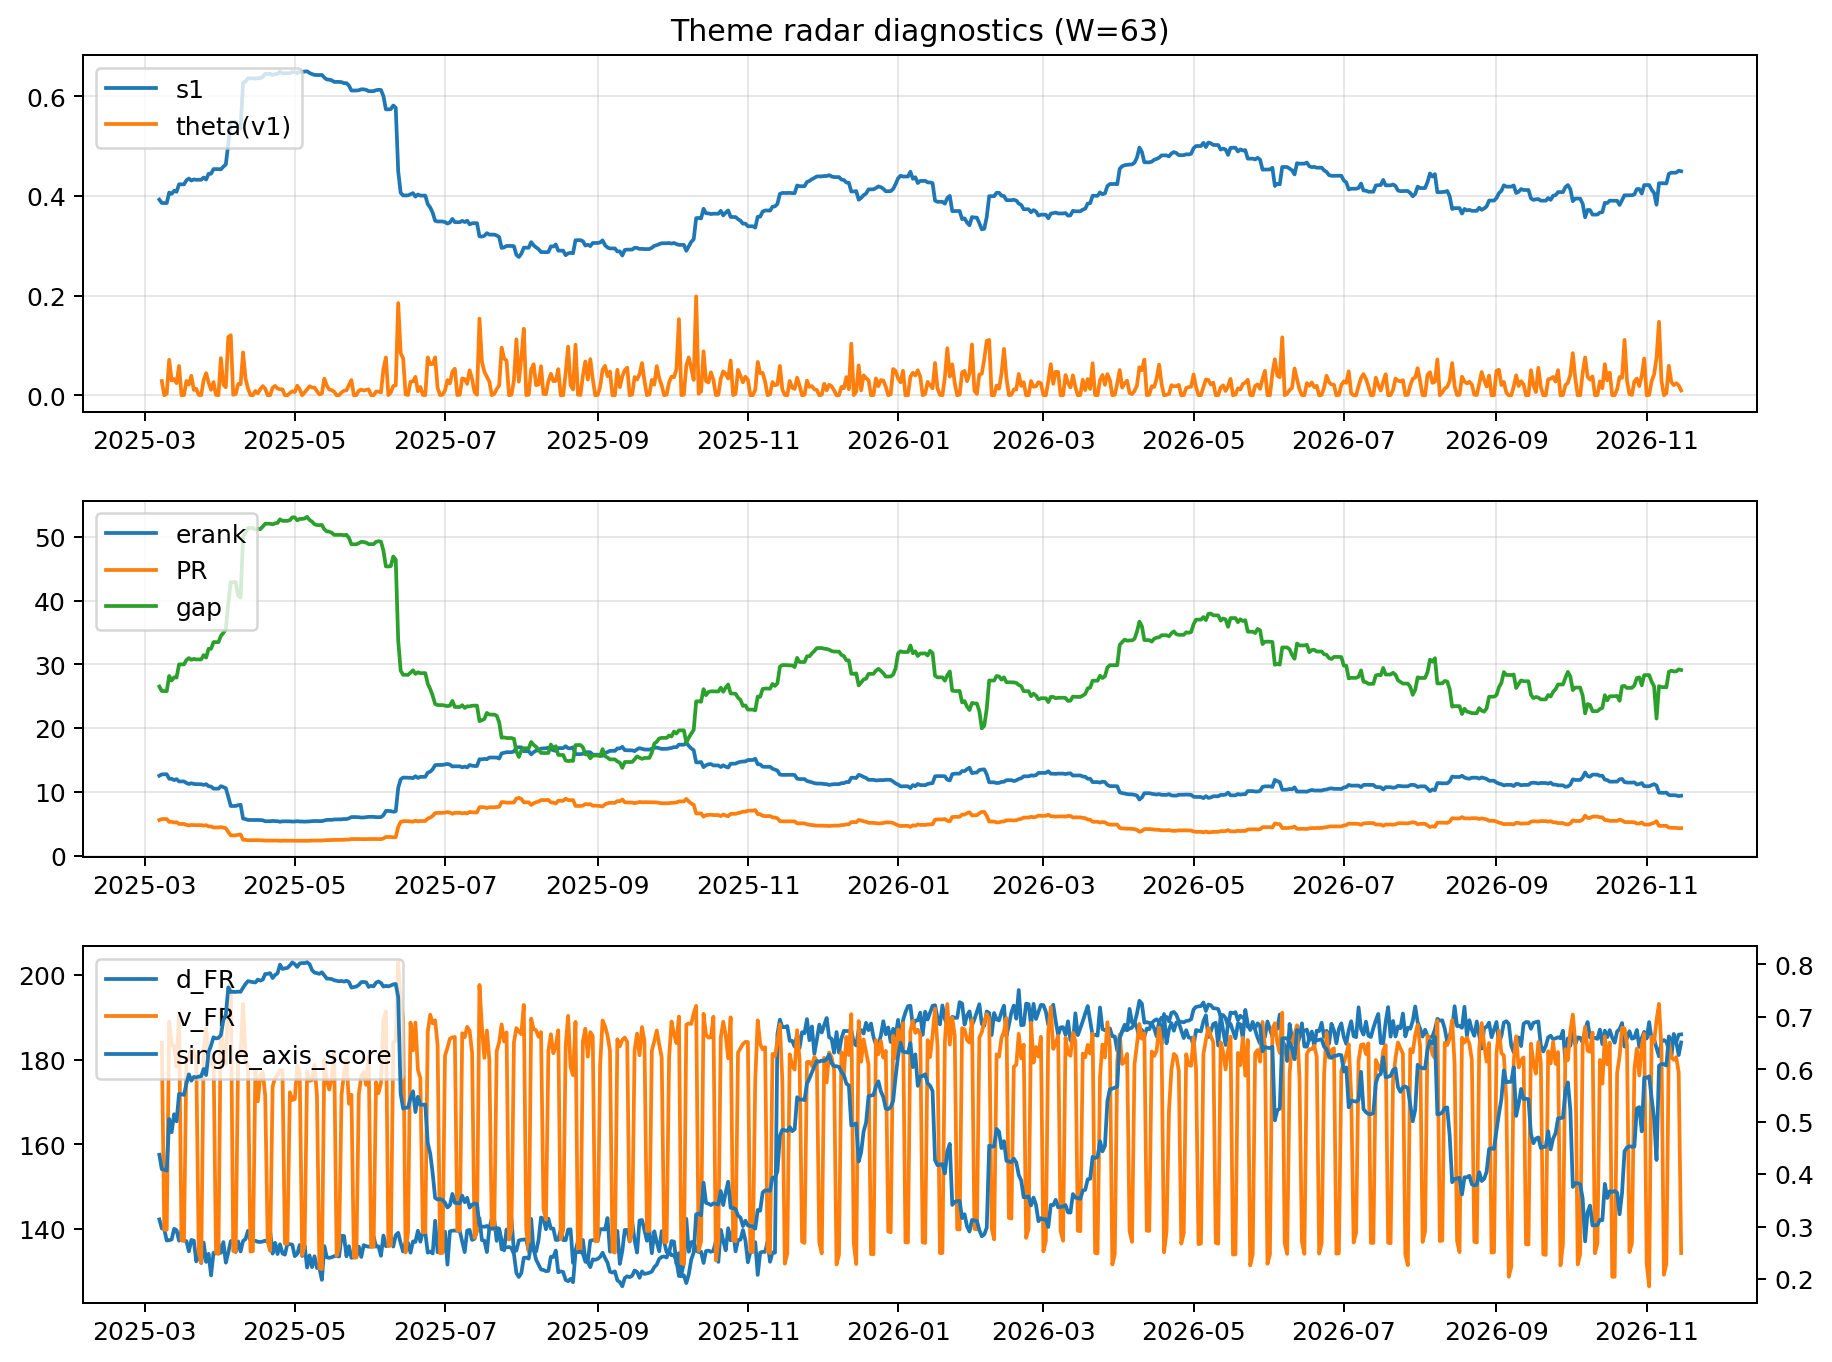
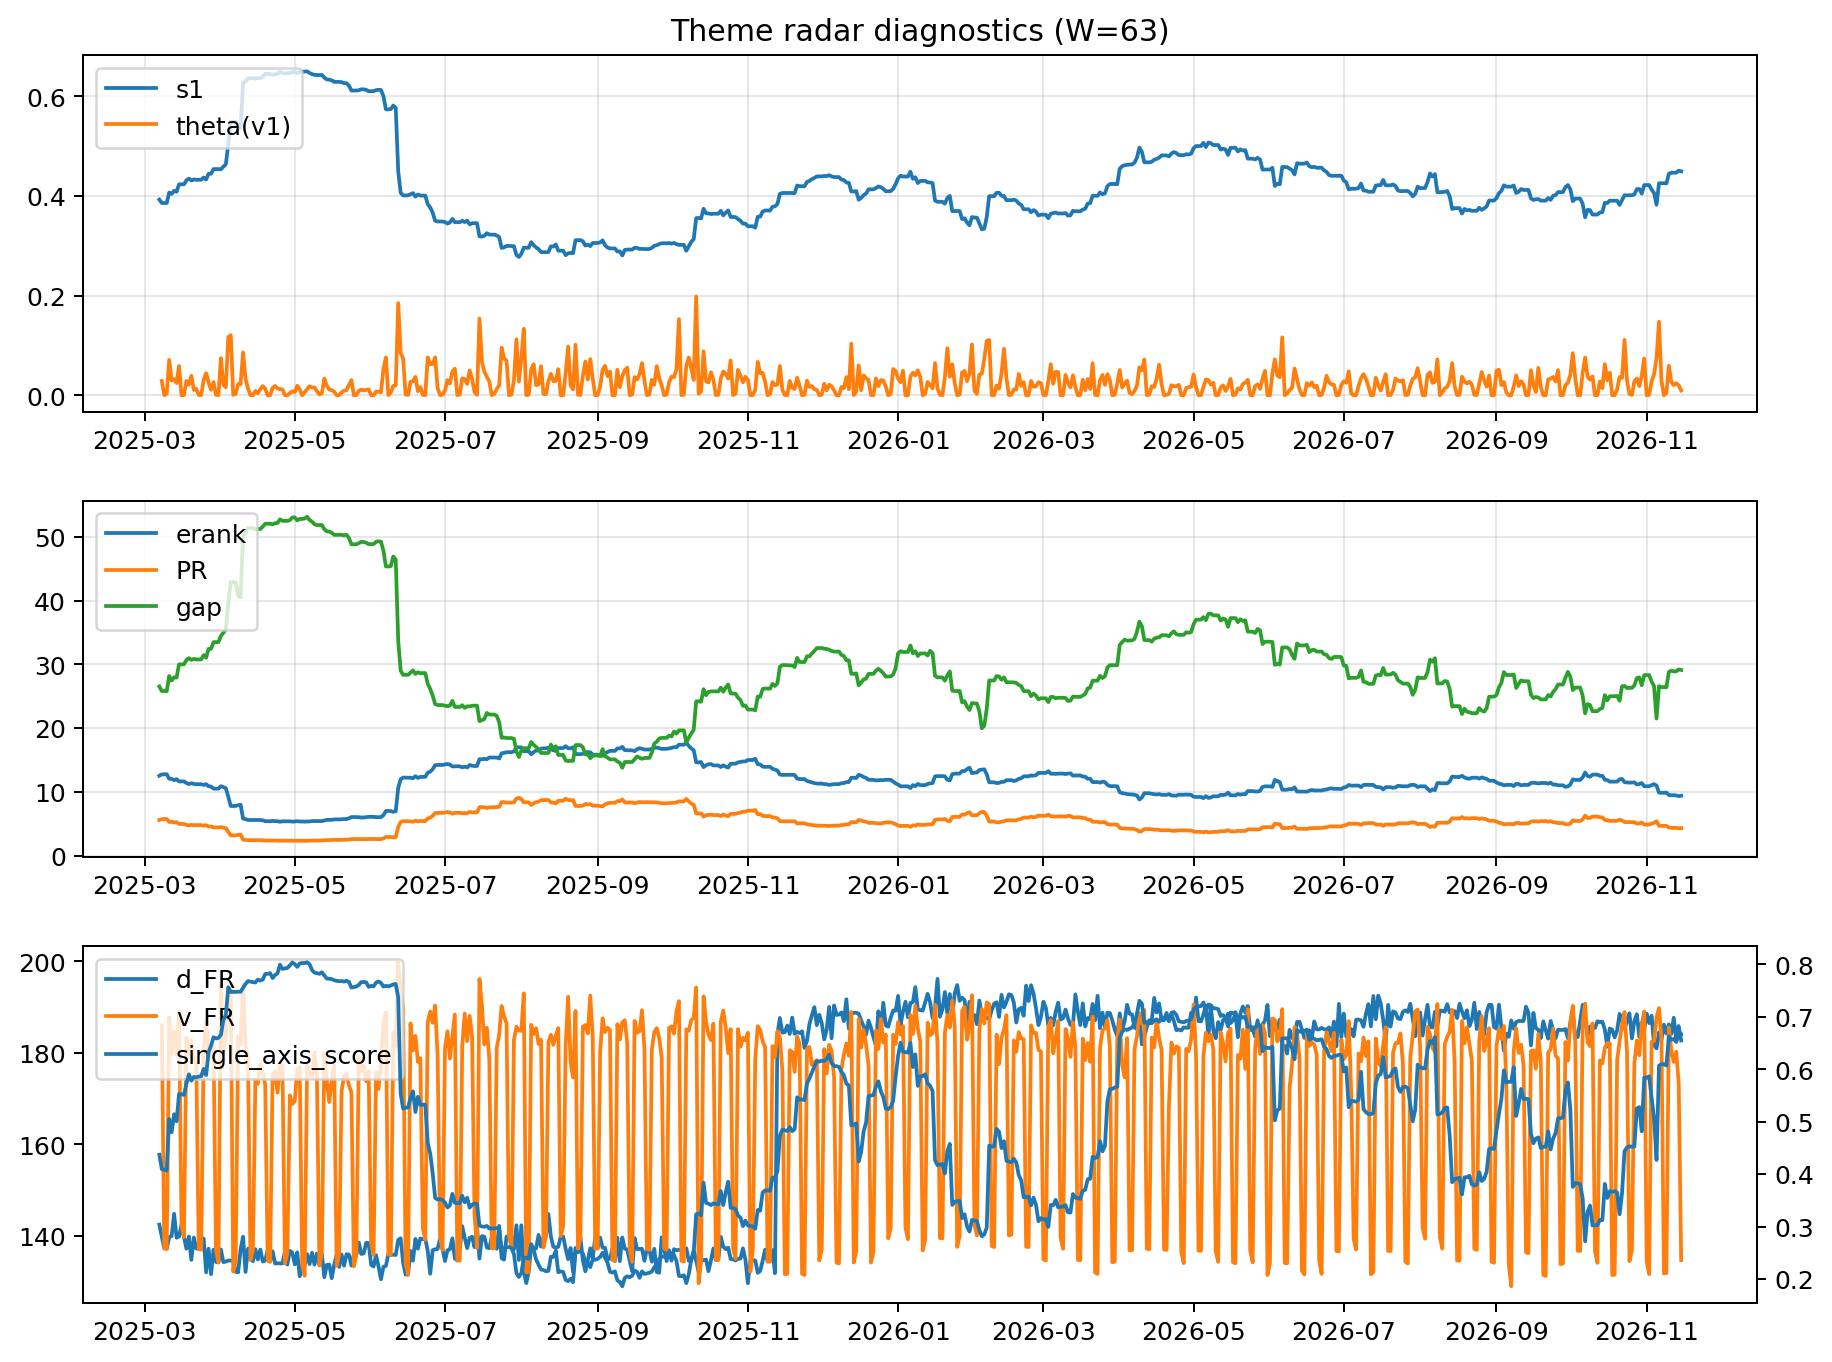
log: 2026-11-15 | sha256:ed44e51eb3f4f78cc31525a917b3a54245b15b5dc826008b9dd9e89f719f9021

diff --git a/logs/2026-11-15.md b/logs/2026-11-15.md
@@ -3,43 +3,43 @@
 ![diagnostic W63](../assets/diagnostic/2026-11-15_W63.png)
 
 ## Leaders (v1) — W=63
-- **Nuclear_Uranium** (0.0846371745938554)
-- Semis (0.0728503584523373)
-- Genomics_Bio (0.0600322162091155)
+- **Nuclear_Uranium** (0.084637172858926)
+- Semis (0.0728503569297131)
+- Genomics_Bio (0.0600322096289818)
 
 ## Challengers — W=63
-**v2:** Rates (0.0991857071324934), Metals (0.0748966209112784), Semis (0.0679594054086272)
-**v3:** MegaCap_AI (0.0818371849276853), Crypto (0.0799462960466356), Rates (0.0762340670704648)
+**v2:** Rates (0.0991858911326457), Metals (0.0748965910857451), Semis (0.0679594084517607)
+**v3:** MegaCap_AI (0.0818371983160368), Crypto (0.0799462087635687), Rates (0.0762335831856171)
 
 ## Migration (20D slope) — W=63
 **Top risers:**
-- axis_Genomics_Bio: 0.0008622543095884
-- axis_Software_Cloud: 0.0004476658415597
-- axis_Cyber: 0.0003914612558131
-- axis_Semis: 0.0003505513711605
-- axis_Drones_Autonomy: 0.000339277571779
-- axis_Defense: 0.0002740554959761
-- axis_Nuclear_Uranium: 0.0002394545054373
-- axis_Sector_Fin: 0.0002301234669195
-- axis_Sector_Comm: 0.0001732897329888
-- axis_Sector_Materials: 0.0001525316073388
+- axis_Genomics_Bio: 0.0008622529587035
+- axis_Software_Cloud: 0.000447664970218
+- axis_Cyber: 0.0003914606430779
+- axis_Semis: 0.0003505493237603
+- axis_Drones_Autonomy: 0.0003392771404311
+- axis_Defense: 0.0002740550170697
+- axis_Nuclear_Uranium: 0.0002394525454176
+- axis_Sector_Fin: 0.0002301235077934
+- axis_Sector_Comm: 0.0001732895449158
+- axis_Sector_Materials: 0.0001525318491477
 
 **Top fallers:**
-- axis_Critical_Minerals: -0.0001570066229147
-- axis_Clean_Solar: -0.000186291476876
-- axis_USD: -0.0002271521709953
-- axis_Credit: -0.0002513802741966
-- axis_Commodities: -0.0002692576268974
-- axis_Sector_ConsStap: -0.0002949749922688
-- axis_Miners: -0.0002996488750907
-- axis_Sector_Energy: -0.0003414406444265
-- axis_Rates: -0.0005008279024157
-- axis_Metals: -0.0011158348452818
+- axis_Critical_Minerals: -0.0001570075251793
+- axis_Clean_Solar: -0.0001862917308888
+- axis_USD: -0.000227152099218
+- axis_Credit: -0.0002513818311494
+- axis_Commodities: -0.0002692579205616
+- axis_Sector_ConsStap: -0.0002949752441196
+- axis_Miners: -0.0002996491353091
+- axis_Sector_Energy: -0.0003414408664453
+- axis_Rates: -0.000500803712781
+- axis_Metals: -0.0011158350849362
 
 ## Risk line (W=63)
-- s1: 0.4494190752573538
-- theta_v1: 0.0097443889910502
-- v_FR: 134.32109365272322
+- s1: 0.44941909805133
+- theta_v1: 0.0097443881414492
+- v_FR: 134.68121670156972
 - single_axis_score: 0.6662358642972536
 
 ## Interpretation
@@ -48,7 +48,7 @@
 - Action: Tomorrow watchlist: Genomics_Bio, Software_Cloud, Cyber, Semis, Drones_Autonomy + v2_top1=Rates
 - Action: Hedge note: normal correlation stability.
 
-- Percentiles (W=63 history): vfr_pct=0.08, theta_pct=0.32, s1_pct=0.75, score_pct=0.78.
+- Percentiles (W=63 history): vfr_pct=0.12, theta_pct=0.32, s1_pct=0.75, score_pct=0.78.
 
 ---
[2 lines of base64/hex data omitted]
